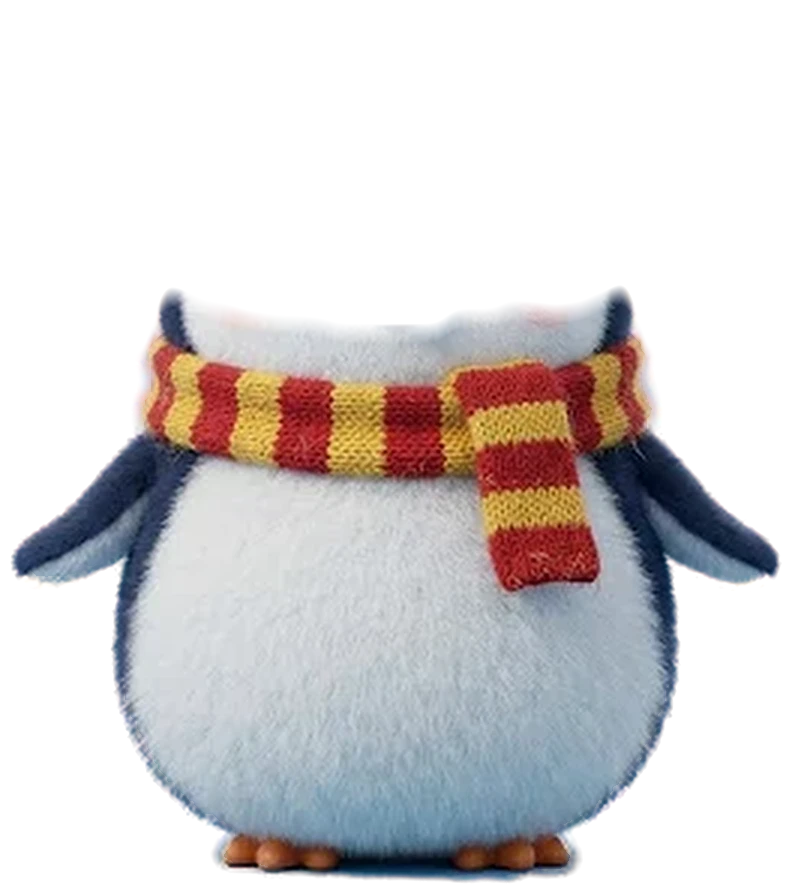
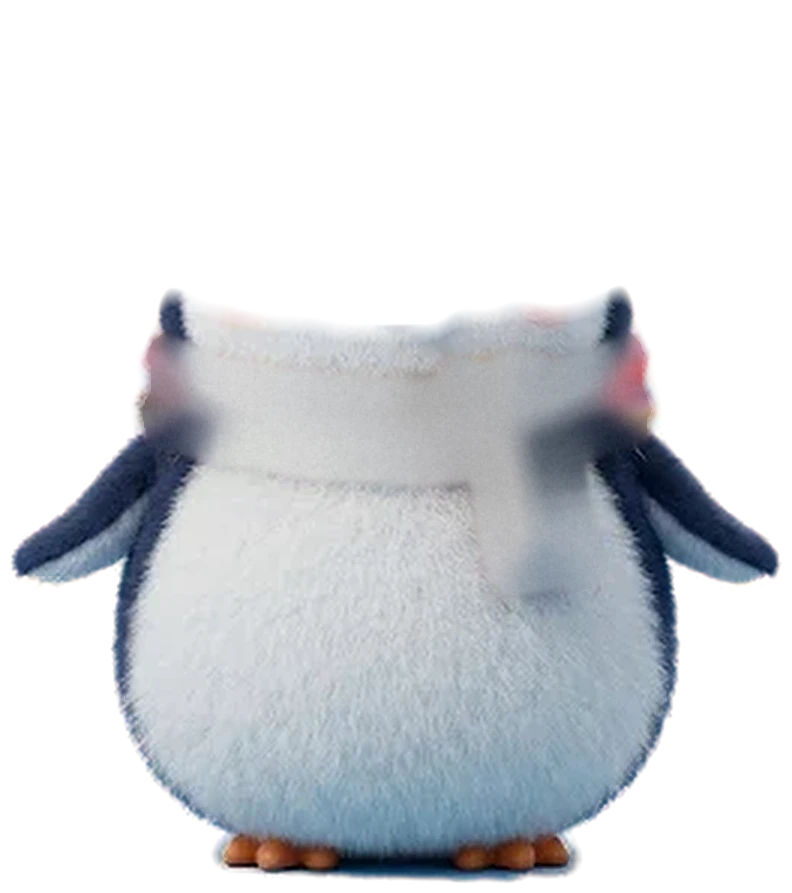
Head turns with the scarf; softer, more natural eyes
- The scarf (including its tail) is now part of the head layer, so the
  head and scarf turn together from the neck; fur is painted in behind
  the scarf on the body so nothing doubles up when Pip turns. Head
  movement is mostly a gentle tilt now, with very little sliding.
- Eyes: soft blurred shading around each eye (no rim), an iris with a
  darker outer ring and a real pupil, an upper-lid shadow, and softened
  edges on the whites and shine. The shading closes with the eye on
  blinks.

Claude-Session: https://claude.ai/code/session_01WgUrzfH79J5jjz53mtkSCE

Changed region(s): [[0.1515, 0.3628, 0.8485, 0.6652]]

diff --git a/index.html b/index.html
@@ -205,36 +205,50 @@
                   <radialGradient id="pupil" cx=".4" cy=".35" r=".75">
                     <stop offset="0" stop-color="#3d3760"/><stop offset=".55" stop-color="#1b1733"/><stop offset="1" stop-color="#0c0a1a"/>
                   </radialGradient>
-                  <radialGradient id="gWhite" cx=".5" cy=".42" r=".6">
-                    <stop offset="0" stop-color="#ffffff"/><stop offset=".75" stop-color="#f4f7fa"/><stop offset="1" stop-color="#cfd8e2"/>
+                  <radialGradient id="gWhite" cx=".5" cy=".4" r=".62">
+                    <stop offset="0" stop-color="#f8f9fb"/><stop offset=".7" stop-color="#eceff3"/><stop offset="1" stop-color="#c6cdd7"/>
                   </radialGradient>
-                  <radialGradient id="gIris" cx=".45" cy=".3" r=".8">
-                    <stop offset="0" stop-color="#4b4275"/><stop offset=".6" stop-color="#1e1838"/><stop offset="1" stop-color="#0d0a1c"/>
+                  <radialGradient id="gIris" cx=".5" cy=".55" r=".56">
+                    <stop offset="0" stop-color="#2a2238"/><stop offset=".45" stop-color="#3d3359"/><stop offset=".82" stop-color="#262038"/><stop offset="1" stop-color="#100d1b"/>
                   </radialGradient>
+                  <linearGradient id="lidShade" x1="0" y1="0" x2="0" y2="1">
+                    <stop offset="0" stop-color="#1a1f33" stop-opacity=".42"/><stop offset=".32" stop-color="#1a1f33" stop-opacity="0"/>
+                  </linearGradient>
+                  <filter id="socketBlur" x="-40%" y="-40%" width="180%" height="180%"><feGaussianBlur stdDeviation="8"/></filter>
+                  <filter id="whiteSoft" x="-10%" y="-10%" width="120%" height="120%"><feGaussianBlur stdDeviation="1.1"/></filter>
+                  <filter id="hlSoft" x="-30%" y="-30%" width="160%" height="160%"><feGaussianBlur stdDeviation=".7"/></filter>
                   <clipPath id="whiteL"><ellipse cx="289" cy="234" rx="41" ry="46"/></clipPath>
                   <clipPath id="whiteR"><ellipse cx="503" cy="234" rx="41" ry="46"/></clipPath>
                 </defs>
-                <!-- glossy cartoon eyes: the dark iris and its sparkles shift together to look at you -->
+                <!-- cartoon eyes: soft shading around them, the iris (with its shine) shifts to look at you -->
                 <g id="ceyes">
                   <g class="ceye">
-                    <ellipse cx="289" cy="234" rx="41" ry="46" fill="url(#gWhite)"/>
-                    <g clip-path="url(#whiteL)"><g id="pupilL">
-                      <ellipse cx="289" cy="237" rx="34" ry="39" fill="url(#gIris)"/>
-                      <ellipse cx="289" cy="258" rx="22" ry="11" fill="#8a7fd0" opacity=".45"/>
-                      <circle cx="276" cy="219" r="11.5" fill="#fff"/>
-                      <circle cx="302" cy="249" r="5" fill="#fff"/>
-                      <circle cx="305" cy="216" r="3" fill="#fff" opacity=".9"/>
-                    </g></g>
+                    <ellipse cx="289" cy="236" rx="50" ry="55" fill="#2a2f47" opacity=".3" filter="url(#socketBlur)"/>
+                    <ellipse cx="289" cy="234" rx="41" ry="46" fill="url(#gWhite)" filter="url(#whiteSoft)"/>
+                    <g clip-path="url(#whiteL)">
+                      <g id="pupilL">
+                        <ellipse cx="289" cy="237" rx="31.5" ry="36" fill="url(#gIris)"/>
+                        <ellipse cx="289" cy="239" rx="15" ry="17" fill="#07060d" opacity=".9"/>
+                        <ellipse cx="289" cy="257" rx="20" ry="8.5" fill="#9a8fd8" opacity=".28" filter="url(#hlSoft)"/>
+                        <ellipse cx="277" cy="221" rx="9.5" ry="10.5" fill="#fff" opacity=".95" filter="url(#hlSoft)"/>
+                        <circle cx="301" cy="251" r="4.2" fill="#fff" opacity=".85"/>
+                      </g>
+                      <rect x="244" y="186" width="90" height="96" fill="url(#lidShade)"/>
+                    </g>
                   </g>
                   <g class="ceye">
-                    <ellipse cx="503" cy="234" rx="41" ry="46" fill="url(#gWhite)"/>
-                    <g clip-path="url(#whiteR)"><g id="pupilR">
-                      <ellipse cx="503" cy="237" rx="34" ry="39" fill="url(#gIris)"/>
-                      <ellipse cx="503" cy="258" rx="22" ry="11" fill="#8a7fd0" opacity=".45"/>
-                      <circle cx="490" cy="219" r="11.5" fill="#fff"/>
-                      <circle cx="516" cy="249" r="5" fill="#fff"/>
-                      <circle cx="519" cy="216" r="3" fill="#fff" opacity=".9"/>
-                    </g></g>
+                    <ellipse cx="503" cy="236" rx="50" ry="55" fill="#2a2f47" opacity=".3" filter="url(#socketBlur)"/>
+                    <ellipse cx="503" cy="234" rx="41" ry="46" fill="url(#gWhite)" filter="url(#whiteSoft)"/>
+                    <g clip-path="url(#whiteR)">
+                      <g id="pupilR">
+                        <ellipse cx="503" cy="237" rx="31.5" ry="36" fill="url(#gIris)"/>
+                        <ellipse cx="503" cy="239" rx="15" ry="17" fill="#07060d" opacity=".9"/>
+                        <ellipse cx="503" cy="257" rx="20" ry="8.5" fill="#9a8fd8" opacity=".28" filter="url(#hlSoft)"/>
+                        <ellipse cx="491" cy="221" rx="9.5" ry="10.5" fill="#fff" opacity=".95" filter="url(#hlSoft)"/>
+                        <circle cx="515" cy="251" r="4.2" fill="#fff" opacity=".85"/>
+                      </g>
+                      <rect x="458" y="186" width="90" height="96" fill="url(#lidShade)"/>
+                    </g>
                   </g>
                 </g>
                 <g id="lids">

diff --git a/style.css b/style.css
@@ -148,7 +148,7 @@ button { font: inherit; color: inherit; cursor: pointer; border: 0; background: 
 #pet { position: relative; cursor: pointer; touch-action: none; aspect-ratio: 792 / 893; }
 #petBody { position: absolute; inset: 0; transform-origin: 50% 100%; animation: breathe 2.8s ease-in-out infinite; }
 #petTilt { position: absolute; inset: 0; }
-#petHead { position: absolute; inset: 0; transform-origin: 50% 42.5%; will-change: transform; pointer-events: none; }
+#petHead { position: absolute; inset: 0; transform-origin: 50% 44.8%; will-change: transform; pointer-events: none; }
 #headImg, #headFx { position: absolute; inset: 0; width: 100%; height: 100%; pointer-events: none; -webkit-user-drag: none; overflow: visible; transition: filter .6s; }
 #petImg { position: absolute; inset: 0; width: 100%; height: 100%; pointer-events: none; transition: filter .6s; -webkit-user-drag: none; }
 #petFx { position: absolute; inset: 0; width: 100%; height: 100%; overflow: visible; pointer-events: none; }

diff --git a/game.js b/game.js
@@ -248,12 +248,12 @@
 
   // Pou-style cartoon eyes: both pupils look toward your cursor or finger
   // together, with a small bit of each eye aiming on its own (EYE_SOLO) so
-  // they feel alive without going cross-eyed. The head leans gently toward you. With a mouse they keep watching while it's in the
+  // they feel alive without going cross-eyed. The head leans gently toward you, turning from the neck with the scarf. With a mouse they keep watching while it's in the
   // window; with touch they follow your finger, then relax back.
   // EYE_MAX = how far the pupils travel; HEAD_MAX = how far the head leans.
   const EYE_MAX = { x: 8, y: 6 };
   const EYE_SOLO = 0.2; // 0 = eyes move as a pair, 1 = each aims fully on its own
-  const HEAD_MAX = { rot: 3, x: 10, y: 6 };
+  const HEAD_MAX = { rot: 3, x: 3, y: 2 };
   const EYES = [
     { el: null, id: '#pupilL', x: 289, y: 234, cx: 0, cy: 0 },
     { el: null, id: '#pupilR', x: 503, y: 234, cx: 0, cy: 0 },

diff --git a/README.md b/README.md
@@ -26,7 +26,7 @@ Plain HTML, CSS and JavaScript. No build step, no installs. Progress saves in th
 | `game.js` | Everything that happens |
 | `icons.js` | Every cartoon icon in the game (food, needs, buttons, coins, hearts…) drawn as SVG |
 | `pip.webp` | Pip's full picture (792 × 893, transparent background), used on the loading screen and in games |
-| `pip_head.webp`, `pip_body.webp` | Pip split at the top of the scarf so the head can lean on its own |
+| `pip_head.webp`, `pip_body.webp` | Pip split so the head and scarf turn together from the neck (original eyes painted out of the head; fur painted in behind the scarf on the body) |
 | `wrangler.jsonc`, `.assetsignore` | Tell Cloudflare to publish the site as plain files |
 
 ## Easy changes
